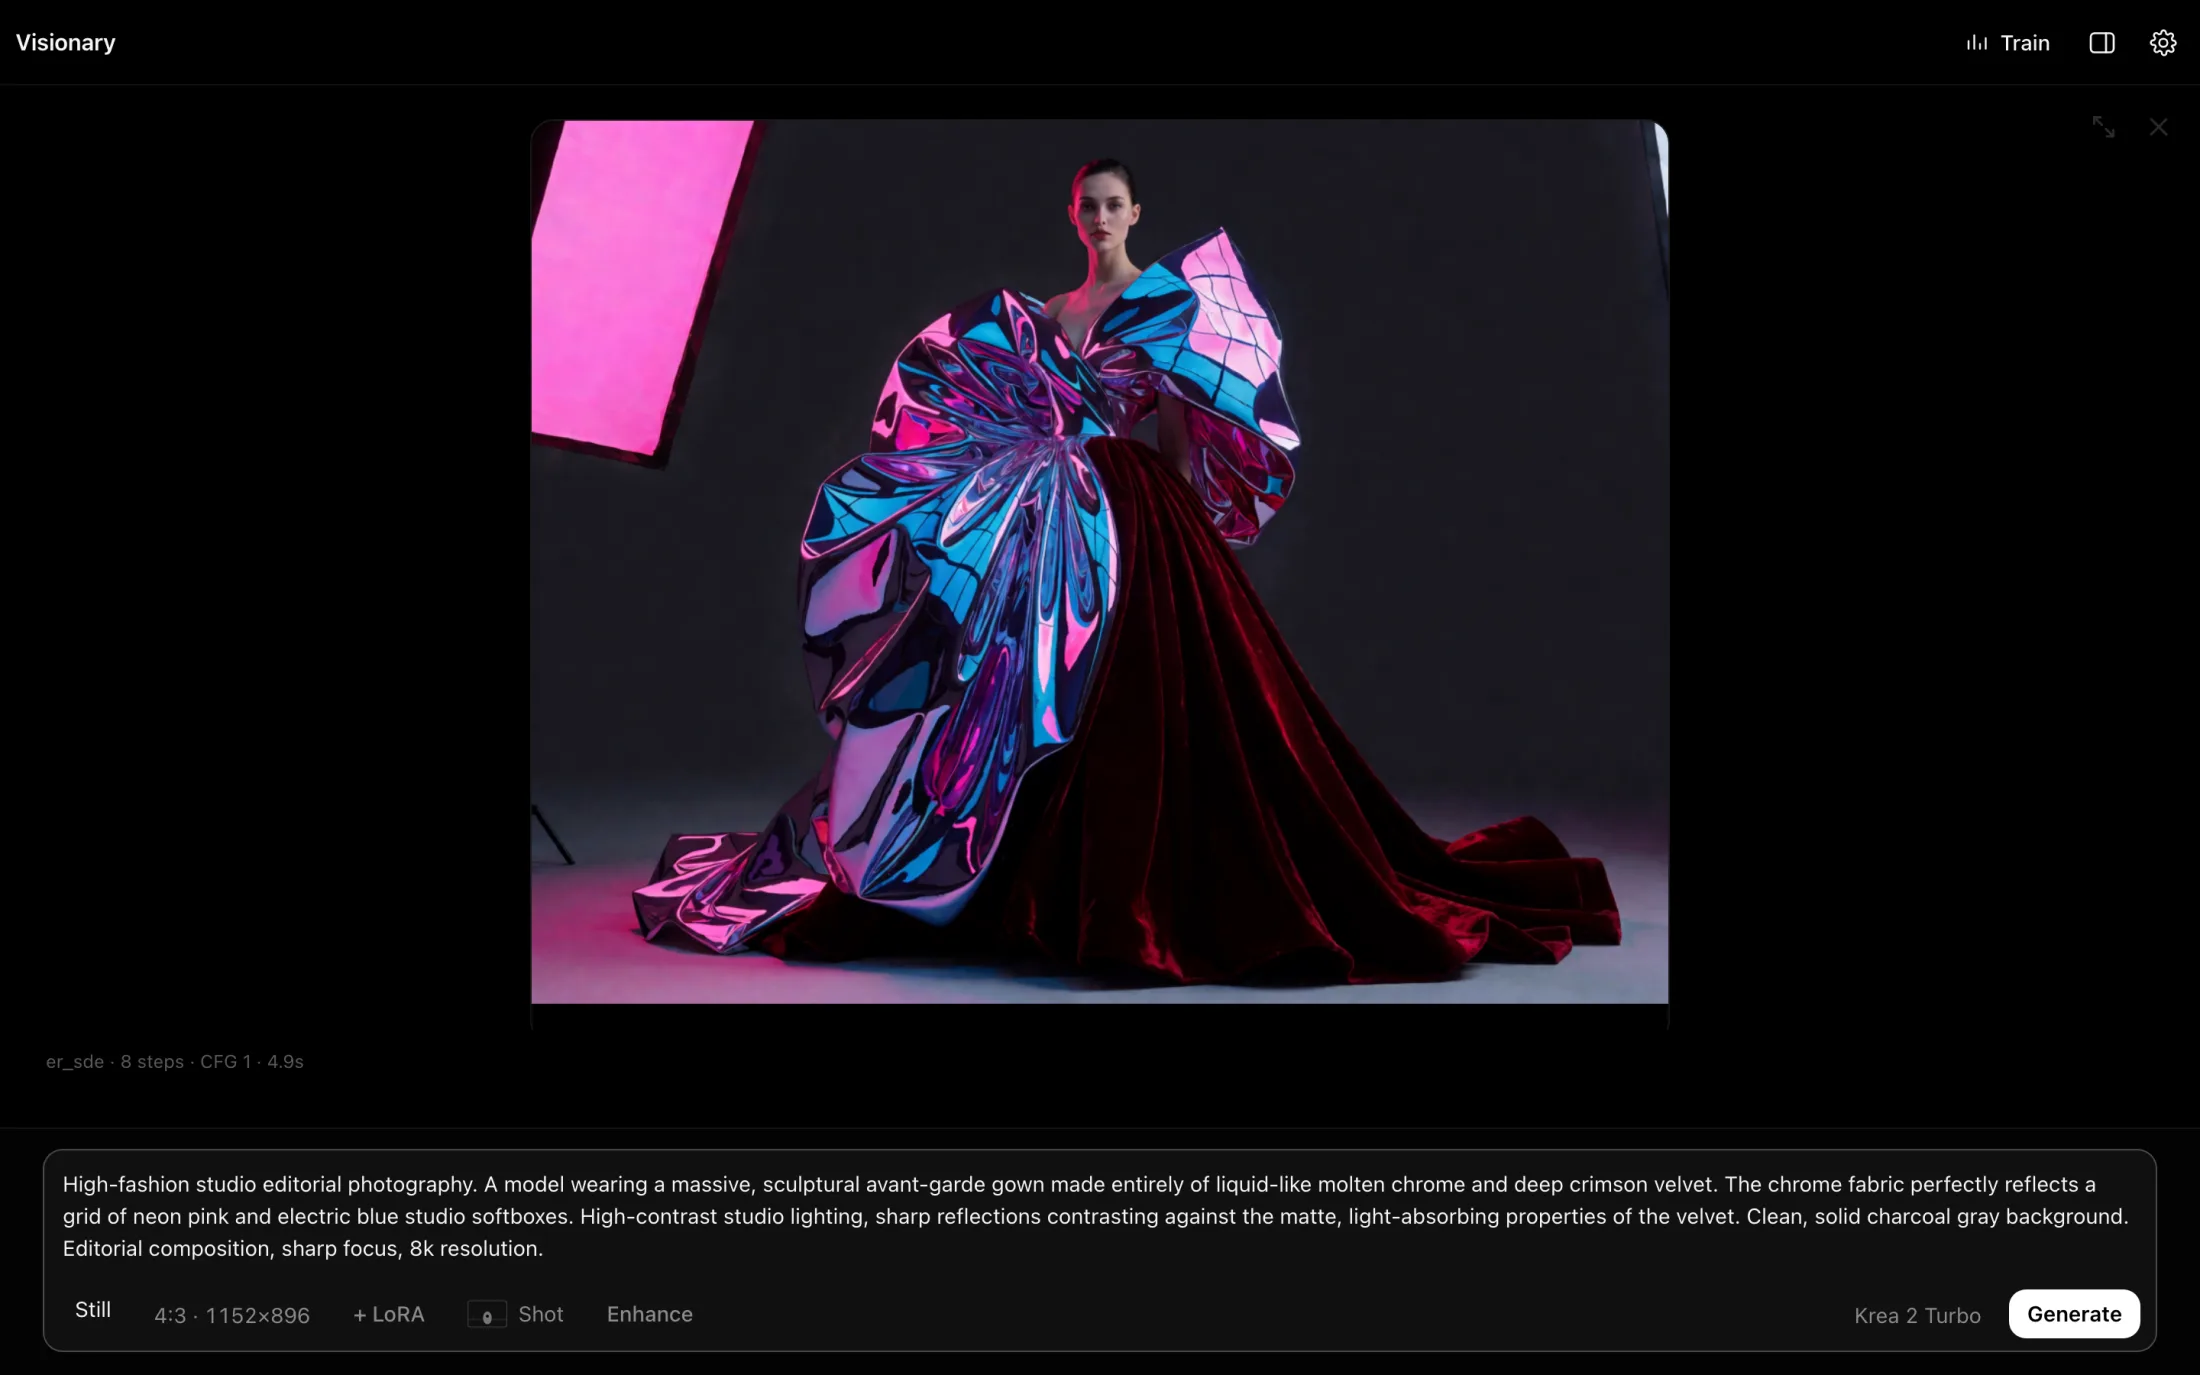
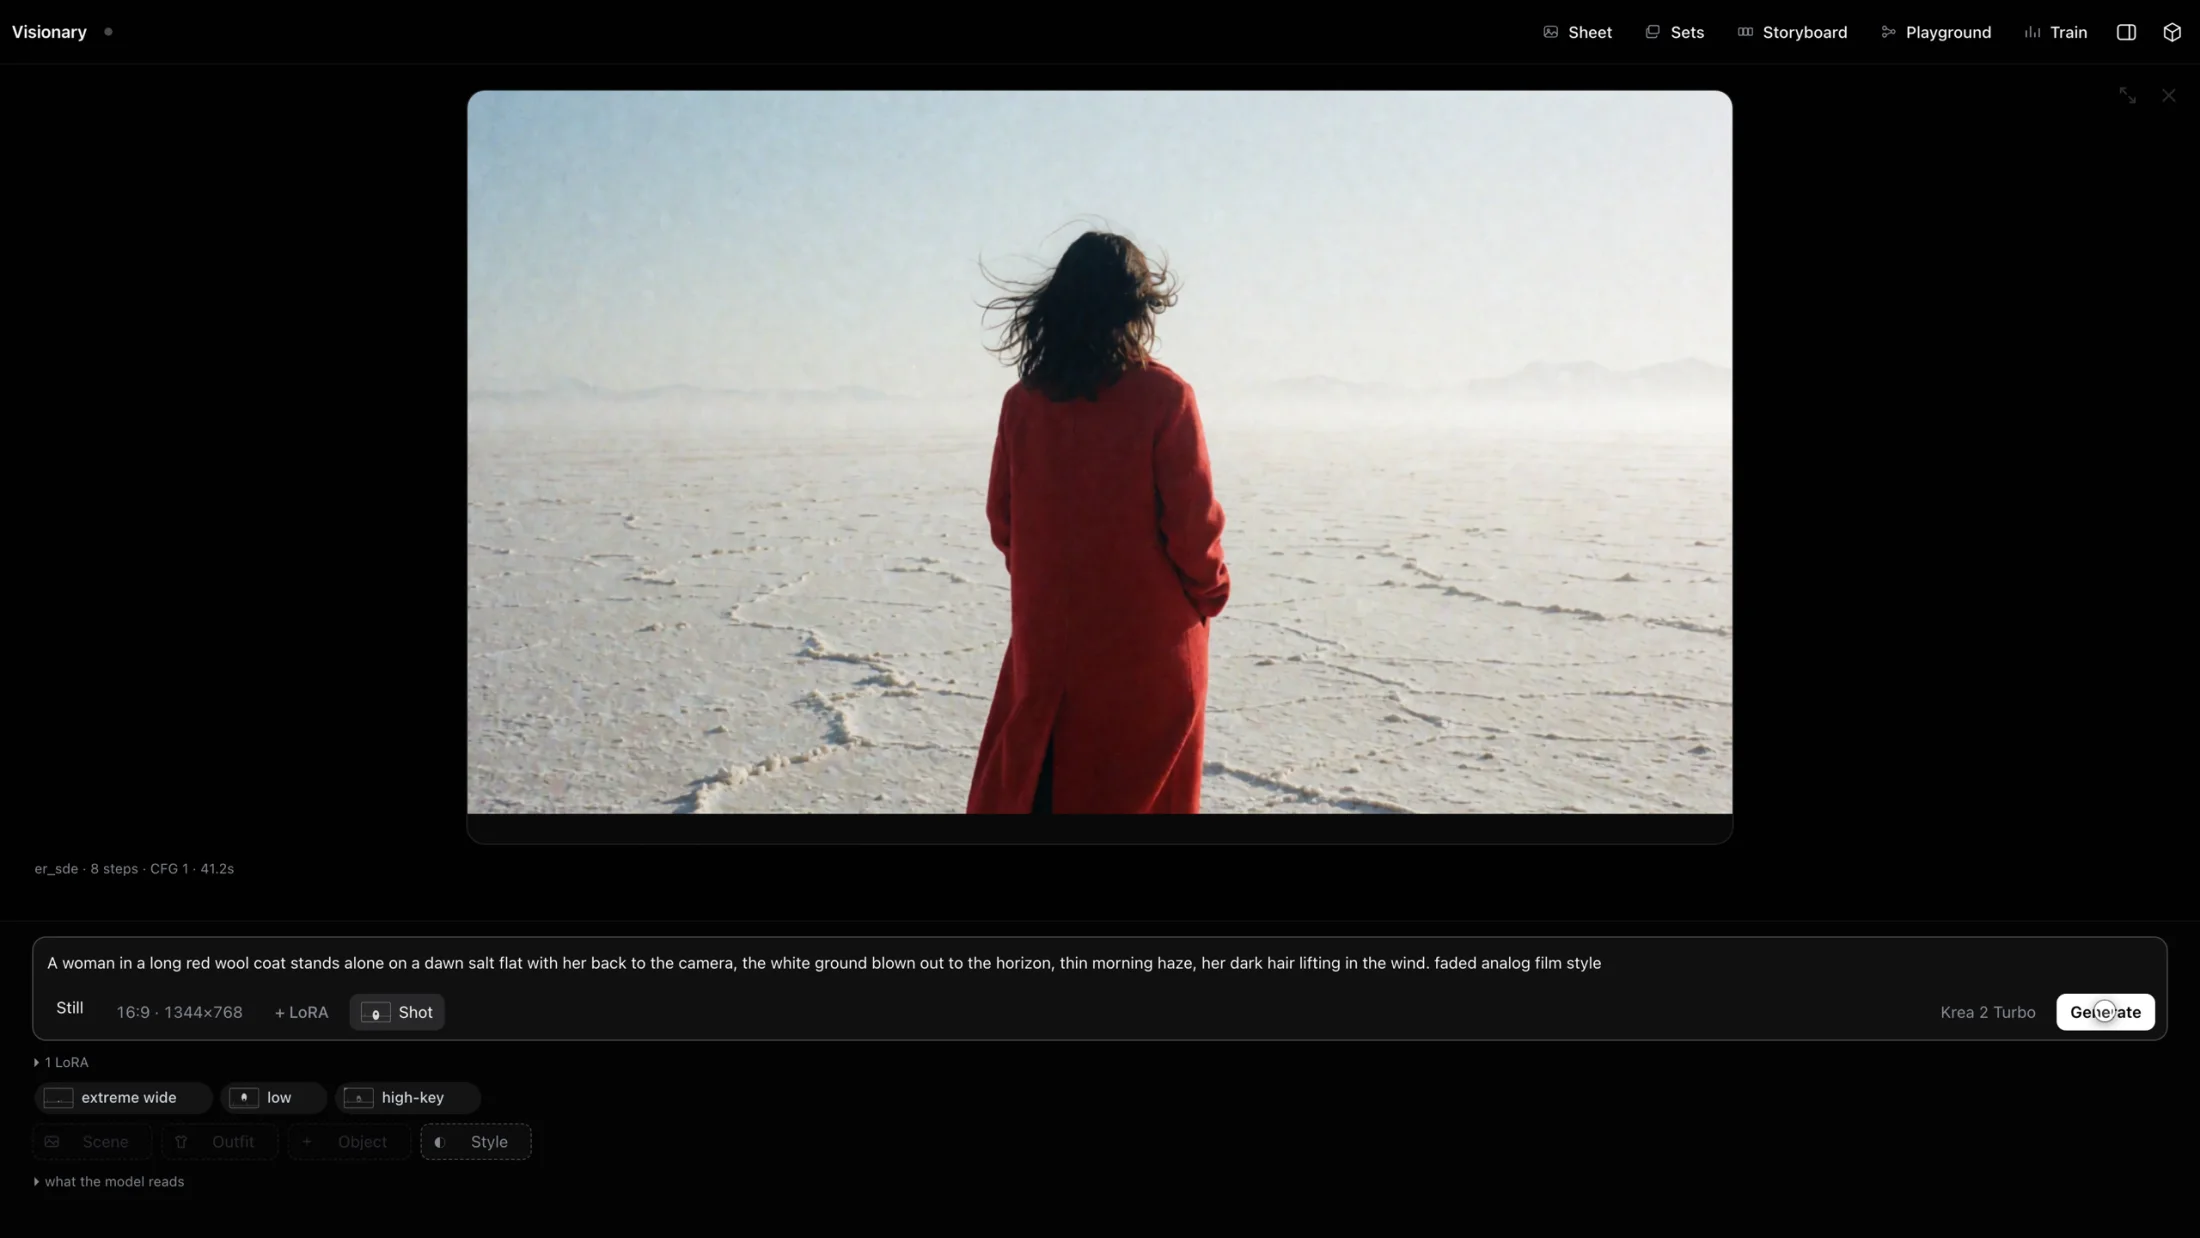
Visionary catches up with its README: seven stale claims, one of them the pane Act II opens on
The platform's README moved this morning and retired the document this
case was built from, so the case was checked against the README,
app.py, web/src and docs/decisions.md.

The prompt enhance is gone — both versions were measured blind and
removed — so the default pane no longer describes it. It is "Nobody
types a text encoder's grammar" now: the palette of eighty tiles, the
compiled prose one fold away, and the measurement as the receipt (the
document layer 0 for 30; the rewrite 3 of 10 and still not worth a
button). The continuum names what exists: two consoles, one canvas,
Still answered by both, the model button as the door. The intro shot is
today's frame with today's strip, and its caption stops naming a seed
and a hardware picker the strip no longer holds. The plate loses vLLM
and gains TypeScript and musubi-tuner. The deploy transcript lists the
four images that exist — comfy, trainer, captioner, web — and both
volumes. The engine pull loses an interpreter that no longer warms. The
membar cap loses "Hopper" — captioning runs on an A100 — and keeps the
fact that survived: the weights moved to their own volume.

The headline stays.

diff --git a/index.html b/index.html
@@ -638,9 +638,10 @@
     </div>
   </header>
 
-  <!-- CASE 1 — VISIONARY. Rebuilt from docs/case-study-visionary.md: the
-       semantic layer, spatial regions, the image/video continuum, and the
-       serverless posture where the engineering decisions are the UX decisions.
+  <!-- CASE 1 — VISIONARY. Checked against the platform README and docs/decisions.md
+       (the case-study doc was retired 2026-09-05): pills not paragraphs, spatial
+       regions, the image/video continuum, and the serverless posture where the
+       engineering decisions are the UX decisions.
        The pictures are from the September shoots (Visionary Demo/): UI stills of
        the real build, renders it made, and one finished eight-second take. Rule:
        never two text blocks in a row — a claim, a picture, a claim. Never a shot
@@ -655,13 +656,13 @@
         <p class="sublead">A studio for training models and making stills and video. One command installs it on your own GPUs. I designed it, engineered it and deployed it.</p>
         <div class="plate">
           <div class="cell"><div class="k">Role</div><div class="v">Design engineer &mdash; sole designer &amp; builder</div></div>
-          <div class="cell"><div class="k">Scope</div><div class="v">Product · UX · Python · written with an AI pair</div></div>
-          <div class="cell"><div class="k">Stack</div><div class="v">Modal · ComfyUI · vLLM · PyTorch · serverless GPU</div></div>
+          <div class="cell"><div class="k">Scope</div><div class="v">Product · UX · Python · TypeScript · written with an AI pair</div></div>
+          <div class="cell"><div class="k">Stack</div><div class="v">Modal · ComfyUI · musubi-tuner · React · serverless GPU</div></div>
           <div class="cell"><div class="k">Status</div><div class="v">Deployed and running · open source</div></div>
         </div>
         <p class="pull"><span class="pl">Built for dreamers</span>The person here is a filmmaker, not a prompt engineer. Their job is to describe a picture they already see. The tool&rsquo;s job is to speak whatever dialect each model needs.</p>
-        <button class="shot" data-cap="<b>The shipped strip.</b> Model, ratio, seed, hardware, LoRA &mdash; one bar, assembled from what the chosen model reads." aria-label="Open the studio screenshot">
-          <img src="assets/visionary/generate.webp" alt="The studio on a still: a rendered figure in a chrome and crimson gown fills the canvas, with the prompt and every control in a single bar underneath" width="2200" height="1375">
+        <button class="shot" data-cap="<b>The shipped strip.</b> Duration, ratio, LoRA, Shot, the model &mdash; one bar, and Generate. What the model reads is one fold beneath it." aria-label="Open the studio screenshot">
+          <img src="assets/visionary/generate.webp" alt="The studio on a still: a woman in a long red coat on a white salt flat fills the canvas; beneath it the sentence that was typed, one bar of controls, and three pills the shot was built from" width="2200" height="1238">
         </button>
         <p class="vzcap"><b>The canvas is the largest thing on screen</b> because the picture is the reason the page exists. The options sit in a bar underneath.</p>
         <p class="vznote">Deployed on Modal. It scales to zero between sessions, so the first visit pays a cold start. <a href="https://adam8623-work--visionary-web.modal.run/" target="_blank" rel="noopener">Open the studio &rarr;</a></p>
@@ -698,20 +699,24 @@
 
       <div class="vzstage reveal">
         <div class="picker" role="tablist" aria-label="The three moves">
-          <button class="on" id="vt-enhance" role="tab" aria-selected="true" aria-controls="vz-enhance">02 &middot; The prompt enhance</button>
+          <button class="on" id="vt-enhance" role="tab" aria-selected="true" aria-controls="vz-enhance">02 &middot; Pills, not paragraphs</button>
           <button id="vt-regions" role="tab" aria-selected="false" aria-controls="vz-regions">03 &middot; Regions</button>
           <button id="vt-continuum" role="tab" aria-selected="false" aria-controls="vz-continuum">04 &middot; One workspace</button>
         </div>
 
-      <!-- THE SEMANTIC LAYER — the prompt enhance. -->
+      <!-- PILLS, NOT PARAGRAPHS — what replaced the prompt enhance. Two versions of
+           enhance were built, measured blind and removed (docs/decisions.md); the
+           pane keeps the measurement as its receipt and shows what the product does
+           instead: a palette, and the compiled prose one fold away. -->
       <div class="beat on reveal" id="vz-enhance" role="tabpanel" aria-labelledby="vt-enhance">
-        <h3 class="beat-title">Enhancement is usually distrust.</h3>
-        <p class="beat-pov">Most enhance features run your sentence through a model and send the result on. <b>The interpretation replaces your intent silently.</b></p>
-        <button class="shot" data-cap="<b>What the model reads</b> sits under what you wrote &mdash; extreme wide, low, high-key &mdash; as pills you can remove. One &#8984;Z and all of it is gone." aria-label="Open the prompt bar screenshot">
-          <img src="assets/visionary/prompt-bar.webp" alt="The studio with a rendered woman in a red coat on a salt flat; below the canvas, the sentence that was typed, and under it three pills the model derived from it: extreme wide, low, high-key" loading="lazy" width="2200" height="1238">
+        <h3 class="beat-title">Nobody types a text encoder&rsquo;s grammar.</h3>
+        <p class="beat-pov">Framing, light, tone and camera come from a palette of eighty tiles. A tile shows you a dolly-out instead of making you guess the wording. <b>What you type keeps only who is in the shot and what happens.</b></p>
+        <button class="shot cite" data-cap="<b>Light and tone, from a palette of eighty.</b> Each tile animates the move it names. Picking one adds a pill under the sentence; removing the pill removes the words." aria-label="Open the palette screenshot">
+          <img src="assets/visionary/palette.webp" alt="The shot palette, open: rows of small animated tiles labelled window light, golden hour, overcast, hard sun, neon, candlelight, practicals, silhouette, top light, then documentary, noir, 16mm, anamorphic, high-key, desaturated, high contrast" loading="lazy" width="1153" height="1044">
         </button>
-        <p class="vzcap">Your sentence stays in the box you typed it in. <b>What the model reads sits under it as pills</b> &mdash; derived or invented, always visible, gone with one &#8984;Z.</p>
-        <p class="pull"><span class="pl">The hardest-won invariant</span>Your prose is the source of truth. Everything the model adds is a disposable interpretation of it. Dropping it costs nothing.</p>
+        <p class="vzcap"><b>What the model reads is one fold away</b> &mdash; quiet prose, produced by the same code the run uses. Nothing is composed around your sentence that you cannot see.</p>
+        <p class="pull"><span class="pl">Enhance, measured and removed</span>Two versions were built. Rendered blind, the document layer beat the bare sentence 0 times in 30. The rewrite won 3 of 10 and was still not worth a button on every prompt.</p>
+        <p class="vznote">Your prose is the source of truth. The measurement agreed, and the button came out.</p>
       </div>
 
       <!-- SPATIAL REGIONS -->
@@ -728,11 +733,11 @@
       <!-- THE IMAGE ↔ VIDEO CONTINUUM -->
       <div class="beat reveal" id="vz-continuum" role="tabpanel" aria-labelledby="vt-continuum">
         <h3 class="beat-title">Image and video are the same place.</h3>
-        <p class="beat-pov">There is no mode switch. <b>Duration is the control.</b> A still runs Krea 2. Any length routes to a video model.</p>
-        <button class="shot" data-cap="<b>The same strip, on a video model.</b> A shot document instead of a sentence: first frame, last frame, eight seconds. MiniMax-H3 carries its own soundtrack, so there is no audio toggle to disable." aria-label="Open the video workspace screenshot">
+        <p class="beat-pov">Two consoles, one canvas, one gallery. The photographer&rsquo;s runs Krea 2 and the filmmaker&rsquo;s runs MiniMax-H3. <b>Still is a photograph and both answer it.</b> Adding seconds is the only thing that moves you to the other engine.</p>
+        <button class="shot" data-cap="<b>The filmmaker&rsquo;s console.</b> A shot document instead of a sentence &mdash; who is in the shot, what happens, first frame, last frame, eight seconds. MiniMax-H3 carries its own soundtrack, so there is no audio toggle to disable." aria-label="Open the video workspace screenshot">
           <img src="assets/visionary/fl2v.webp" alt="The workspace on a video model: the salt flat two-shot plays in the canvas while a gull crosses the frame; below it the direction, a first-frame thumbnail and the pills the model reads" loading="lazy" width="2200" height="1238">
         </button>
-        <p class="vzcap"><b>The two strips differ by a seconds picker.</b> Someone who wants one image finishes and leaves without learning that motion exists.</p>
+        <p class="vzcap"><b>The model button is the door between them.</b> Someone who wants one image finishes and leaves without learning that motion exists.</p>
         <!-- One finished take, click to play. No autoplay anywhere on this site. -->
         <div class="vclip">
           <div class="screenv" data-clip="assets/visionary/take-fl2v.mp4" aria-label="Play the eight-second take">
@@ -786,12 +791,12 @@
              returned is yours, not that you can reach mine. -->
         <div class="term">
           <p><span class="tp">&rsaquo;</span><span class="tc">modal deploy app.py</span></p>
-          <p class="to"><span class="tk">&check;</span>four images built &mdash; <b>comfy</b>, <b>trainer</b>, <b>captioner</b>, <b>parse</b></p>
+          <p class="to"><span class="tk">&check;</span>four images built &mdash; <b>comfy</b>, <b>trainer</b>, <b>captioner</b>, <b>web</b></p>
           <p class="to"><span class="tk">&check;</span>web endpoint, API and GPU classes registered</p>
-          <p class="to"><span class="tk">&check;</span>volume mounted at <b>/workspace</b></p>
+          <p class="to"><span class="tk">&check;</span>two volumes mounted &mdash; <b>/workspace</b>, <b>/models</b></p>
           <p class="tu">https://&lt;you&gt;--visionary-web.modal.run</p>
         </div>
-        <p class="pull"><span class="pl">Zero-idle is a UX property</span>Cold starts are paid where you aren&rsquo;t looking. The interpreter warms while you type. Weights download on cheap CPU containers, never on a rented GPU.</p>
+        <p class="pull"><span class="pl">Zero-idle is a UX property</span>Cold starts are paid where you aren&rsquo;t looking. Bad inputs are rejected on CPU before a GPU is rented. Weights download on cheap CPU containers, never on a rented GPU.</p>
         <div class="membar">
           <div class="mhead">One captioning job, before the split. <b>Two thirds of it was overhead.</b></div>
           <div class="track" role="img" aria-label="A 23 minute job, of which 8 minutes was the work and 15 minutes was committing unchanged model weights to the volume">
@@ -803,7 +808,7 @@
             <span><i class="a"></i>8&nbsp;min · writing 80 captions</span>
             <span><i class="b"></i>15&nbsp;min · committing 17&nbsp;GB of unchanged weights</span>
           </div>
-          <p class="cap">Fifteen of those minutes wrote nothing new. The cache moved to its own volume. Captioning runs on Hopper now: <b>a hundred photos in under a minute</b>.</p>
+          <p class="cap">Fifteen of those minutes wrote nothing new. <b>The weights moved to their own volume.</b> Nothing derived lives on either.</p>
         </div>
       </div>
 
